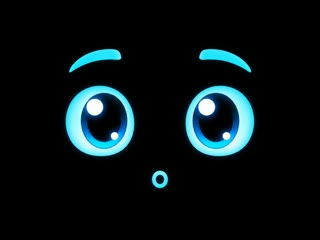
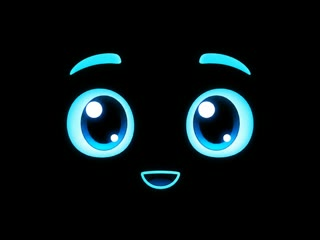
add aligned Taco speech mouth frames

diff --git a/src/main.cpp b/src/main.cpp
@@ -31,6 +31,10 @@ extern const uint8_t faceTalkSmallStart[] asm("_binary_assets_faces_talk_small_j
 extern const uint8_t faceTalkSmallEnd[] asm("_binary_assets_faces_talk_small_jpg_end");
 extern const uint8_t faceTalkClosedStart[] asm("_binary_assets_faces_talk_closed_jpg_start");
 extern const uint8_t faceTalkClosedEnd[] asm("_binary_assets_faces_talk_closed_jpg_end");
+extern const uint8_t faceTalkMediumStart[] asm("_binary_assets_faces_talk_medium_jpg_start");
+extern const uint8_t faceTalkMediumEnd[] asm("_binary_assets_faces_talk_medium_jpg_end");
+extern const uint8_t faceTalkWideStart[] asm("_binary_assets_faces_talk_wide_jpg_start");
+extern const uint8_t faceTalkWideEnd[] asm("_binary_assets_faces_talk_wide_jpg_end");
 
 namespace {
 
@@ -302,7 +306,7 @@ void onHubEvent(WStype_t type, uint8_t* payload, size_t length) {
       hubConnected = true;
       hubSocket.sendTXT(String("{\"type\":\"hello\",\"device_id\":\"") +
                         AppConfig::DEVICE_ID +
-                        "\",\"hardware\":\"CoreS3\",\"firmware\":\"1.0.0-alpha.8\"}");
+                        "\",\"hardware\":\"CoreS3\",\"firmware\":\"1.0.0-alpha.9\"}");
       sendDeviceSettings();
       sendCapabilities();
       showNotification("Taco Hub connected");
@@ -727,11 +731,11 @@ void drawFace(uint32_t now) {
       start = faceTalkSmallStart;
       end = faceTalkSmallEnd;
     } else if (talkMouthLevel == 2) {
-      start = faceSurprisedStart;
-      end = faceSurprisedEnd;
+      start = faceTalkMediumStart;
+      end = faceTalkMediumEnd;
     } else {
-      start = faceExcitedStart;
-      end = faceExcitedEnd;
+      start = faceTalkWideStart;
+      end = faceTalkWideEnd;
     }
   } else if (blinking && !conversationActive && mood == Mood::Happy) {
     start = faceWinkStart;

diff --git a/docs/design/faces/README.md b/docs/design/faces/README.md
@@ -29,14 +29,14 @@ options in `publishDiscovery()`.
 
 # Shared Taco face set
 
-Firmware `1.0.0-alpha.8` embeds the professional faces from the approved ChatGPT shared collection as LCD-sized, baseline 4:2:0 JPEG assets. The firmware uses them as follows:
+Firmware `1.0.0-alpha.9` embeds the professional faces from the approved ChatGPT shared collections as LCD-sized, baseline 4:2:0 JPEG assets. The firmware uses them as follows:
 
 - happy: idle
 - startled: conversation wake-up
 - curious: listening
 - sleepy: resting or sleeping
 - thinking: processing a question
-- talk closed, small, round and wide: audio-reactive speaking animation
+- talk closed, small, medium and wide: aligned, audio-reactive speaking animation
 - excited: loud/emphatic speech
 - surprised: remote surprised mood
 - sad: error mood
